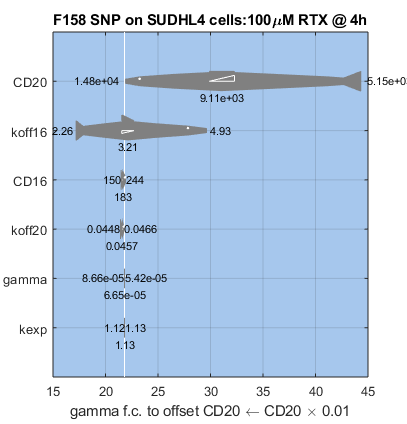
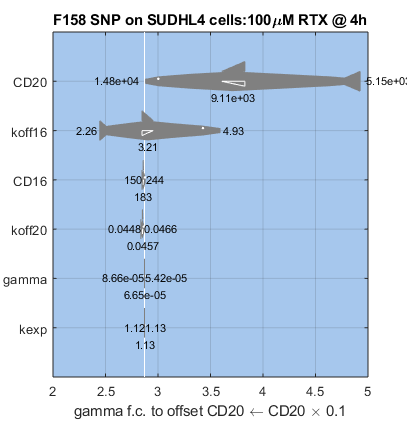
Found a BIG BUG in tornado_plot2.m which meant that how much dx to offset dp was always varying 'gamma' irrespective of what user entered. Now fixed, with png's file to go with it. Also tried to make the how much ...m file pick a smarter initial guess for fold change.

diff --git a/code/tornado_plot2.m b/code/tornado_plot2.m
@@ -41,16 +41,15 @@ end
 
 %% test the main function
 xname = 'gamma';
-dp = struct('CD20',0.01); % for example, dp = struct('CD20',0.01) sets up the question, how much fold increase in 'CD16' is needed to offset 2 logs drop in CD20?
+dp = struct('CD20',0.1); % for example, dp = struct('CD20',0.01) sets up the question, how much fold increase in 'CD16' is needed to offset 2 logs drop in CD20?
 dx = how_much_dx_to_offset_dp(pbest,dp,xname,@adcx_wrapper,Rconc,[0:.1:tend]);
 
 %% specify the objective function on which to do sensitivity analysis
-ofun = @(pstruct)how_much_dx_to_offset_dp(pstruct,dp,'gamma',@adcx_wrapper,Rconc,[0:.1:tend]) ; % set up anonymous Output function to run analysis on
-xlab = 'how much gamma fc required to offset CD20 \leftarrow CD20*0.01'; % this needs to be hand curated!  Make it automatic...
-ppname = fieldnames(dp); ppname = ppname{1};
+ofun = @(pstruct)how_much_dx_to_offset_dp(pstruct,dp,xname,@adcx_wrapper,Rconc,[0:.1:tend]) ; % set up anonymous Output function to run analysis on
+ppname = fieldnames(dp); ppname = ppname{1}; % this breaks, or is wrong, if there is more than one parameter listed in dp
 xlab = sprintf('%s f.c. to offset %s \\leftarrow %s \\times %3.3g',xname,ppname,ppname,dp.(ppname));
 
-
+% uncomment below if you want to sensitivity analysis on %ADCC
 %ofun = @(pstruct)adcx_wrapper(pstruct,Rconc,[0:.1:tend]);
 %xlab = '%ADCC';
 
@@ -139,8 +138,8 @@ for j = 1:Nsens
 % 	end
     fill([xvec flip(xvec)],j+[-yvec flip(yvec)],barcol,'edgecolor','none'); % shark 'body'
 	dk = diff(xvec(ceil(Nquan/2)+[-1 1]))/8;
-	fill(funvals(jj,find(qlevels==0.5))+dk*[-1 1 -1],0.2*[0 0 dk]+j+dj*ceil(Nquan/2),barcol,'edgecolor',barcol); % shark dorsal 'fin'
-	fill(funvals(jj,find(qlevels==0.5))+dk*[-1 1 -1],-0.1*[0 0 dk]+j,barcol,'edgecolor','w'); % shark side 'fin'
+	fill(funvals(jj,find(qlevels==0.5))+dk*[-1 1 -1],0.2*[0 0 1]+j+dj*ceil(Nquan/2),barcol,'edgecolor',barcol); % shark dorsal 'fin'
+	fill(funvals(jj,find(qlevels==0.5))+dk*[-1 1 -1],-0.1*[0 0 1]+j,barcol,'edgecolor','w'); % shark side 'fin'
 	plot(funvals(jj,end-1),j+dj,'w.'); % eye
 	fill(funvals(jj,1)+dk*[0 0 2],dj*ceil(Nquan/2)*[1 -1 0]+j,barcol,'edgecolor',barcol); % tailfin
 % 	switch sign(dk)

diff --git a/code/how_much_dx_to_offset_dp.m b/code/how_much_dx_to_offset_dp.m
@@ -12,13 +12,20 @@ end
 
 
 adcx_target = modelfun(pin,varargin{:});
-adcx_init = modelfun(pdelta,varargin{:}); % not used, just warming up...
+adcx_init = modelfun(pdelta,varargin{:});
 
+dlx = log(adcx_target/adcx_init); % how many logs to perturb over to see what 'slope' is
+adcx_hi = modelfun(pnewfun( dlx,xname,pdelta),varargin{:});
+adcx_lo = modelfun(pnewfun(-dlx,xname,pdelta),varargin{:});
 
-[dx,fval,exitflag,output] = fzero(@(ddx)adcx_target - modelfun(pnewfun(ddx,xname,pdelta),varargin{:}),1);
+dladcx_dldx = (log(adcx_hi) - log(adcx_lo))/(2*dlx);
+ldx0 = (log(adcx_target)-log(adcx_init))/dladcx_dldx;
+
+[ldx,fval,exitflag,output] = fzero(@(lddx)adcx_target - modelfun(pnewfun(lddx,xname,pdelta),varargin{:}),ldx0);
+dx = exp(ldx);
 end
 
-function pnew = pnewfun(dddx,xname,pdelta)
+function pnew = pnewfun(ldx,xname,pdelta)
 pnew = pdelta;
-pnew.(xname) = pnew.(xname)*dddx;
+pnew.(xname) = pnew.(xname)*exp(ldx);
 end
